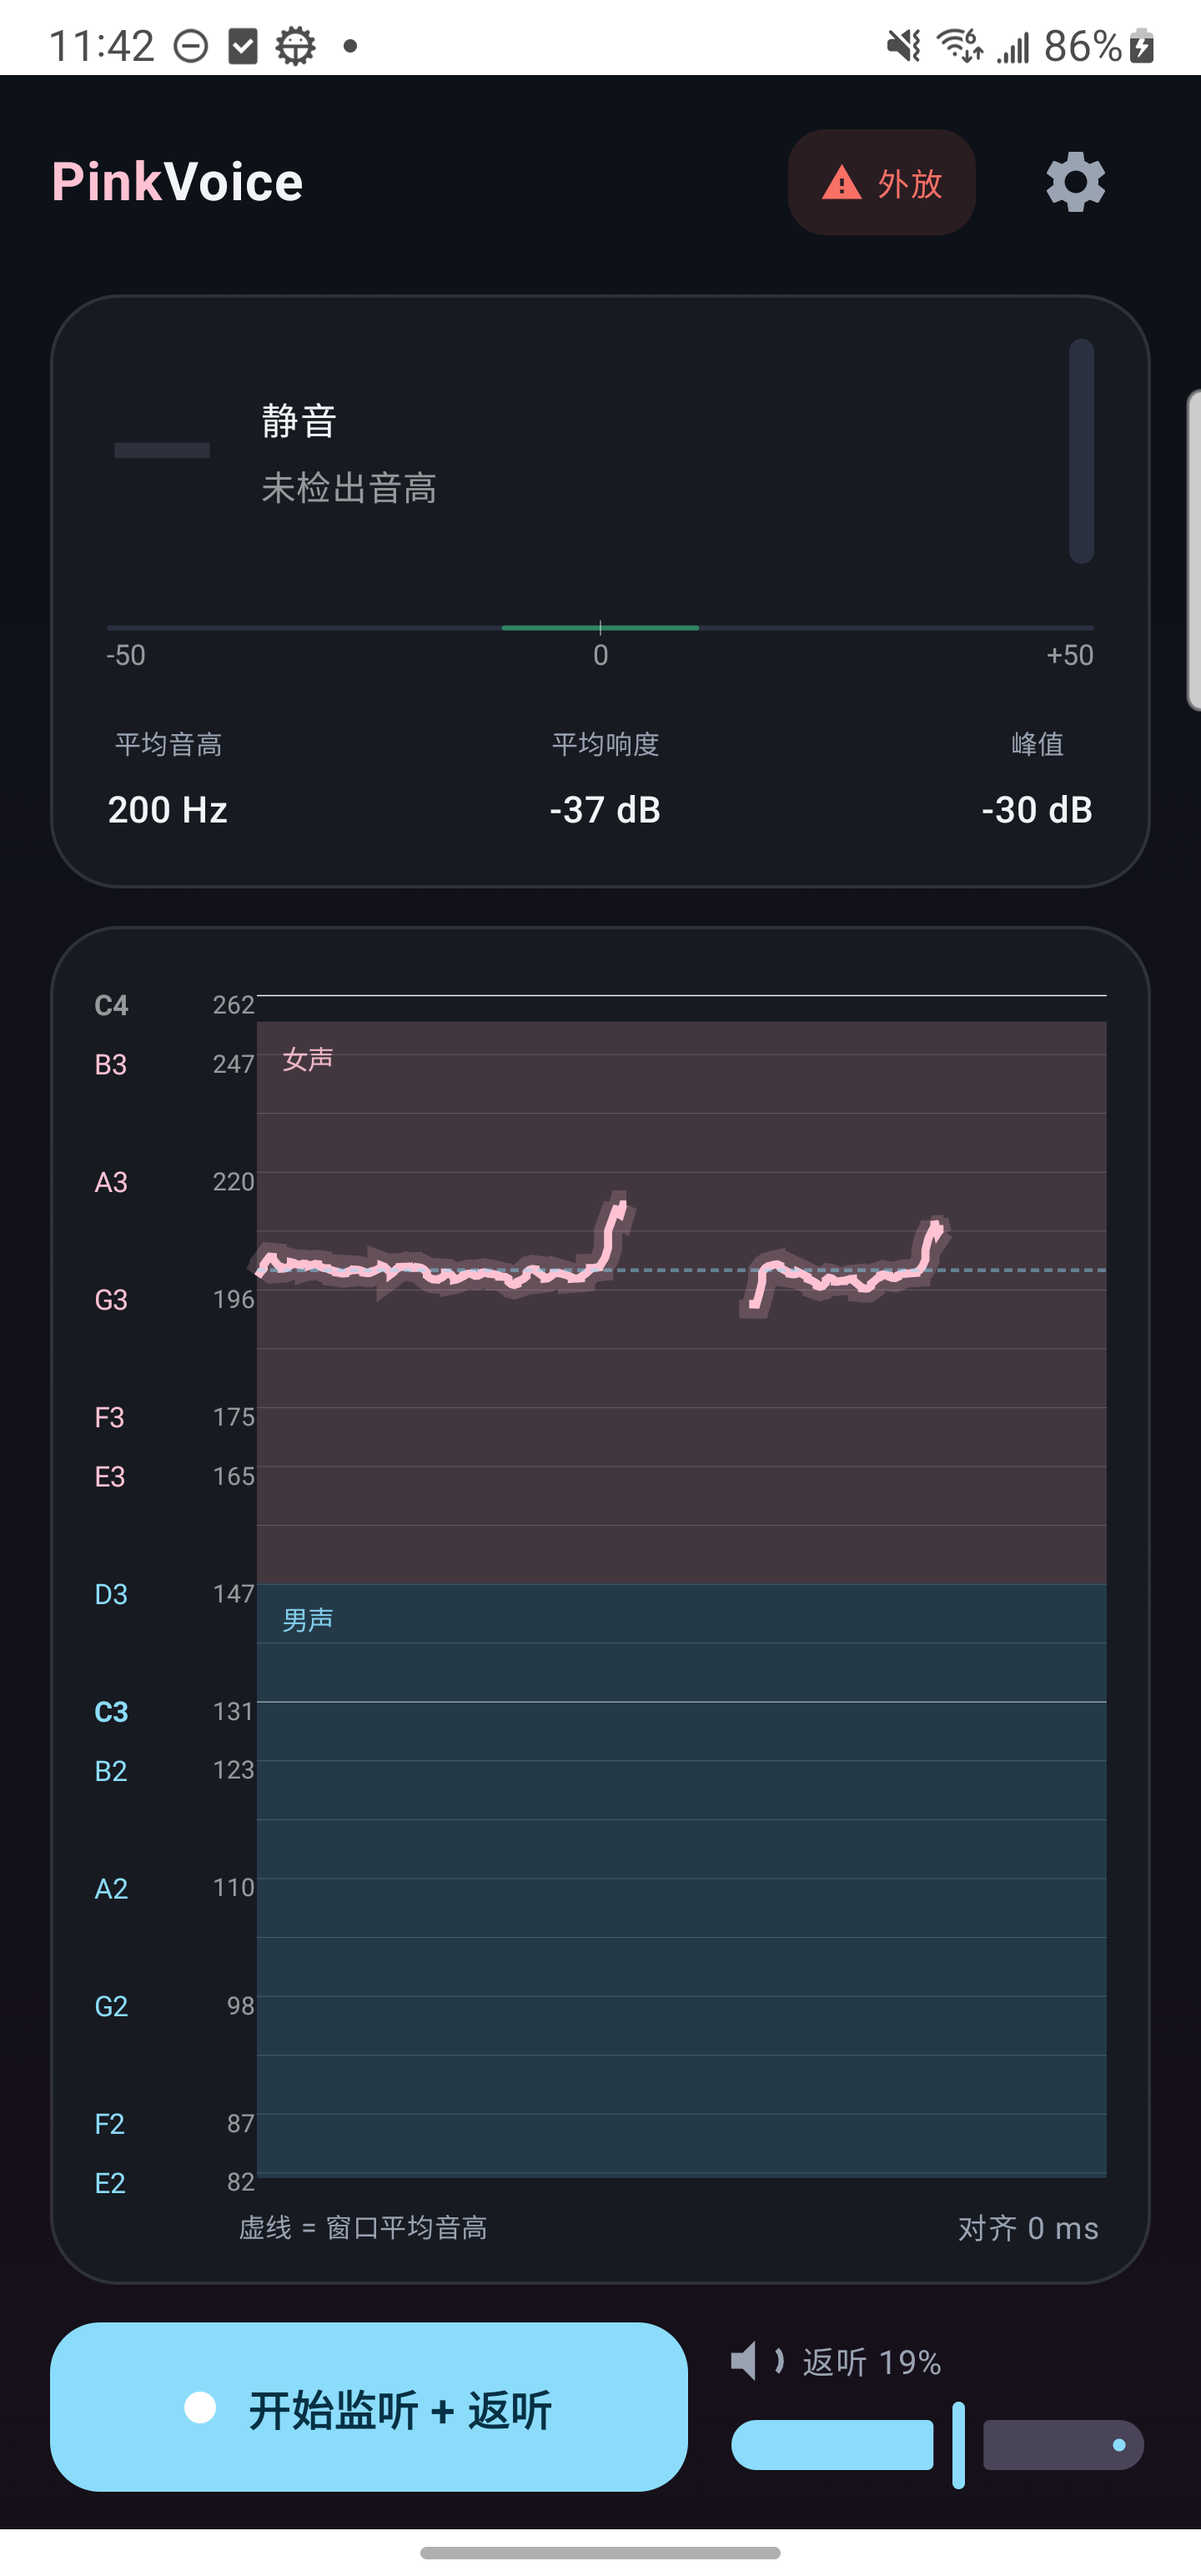
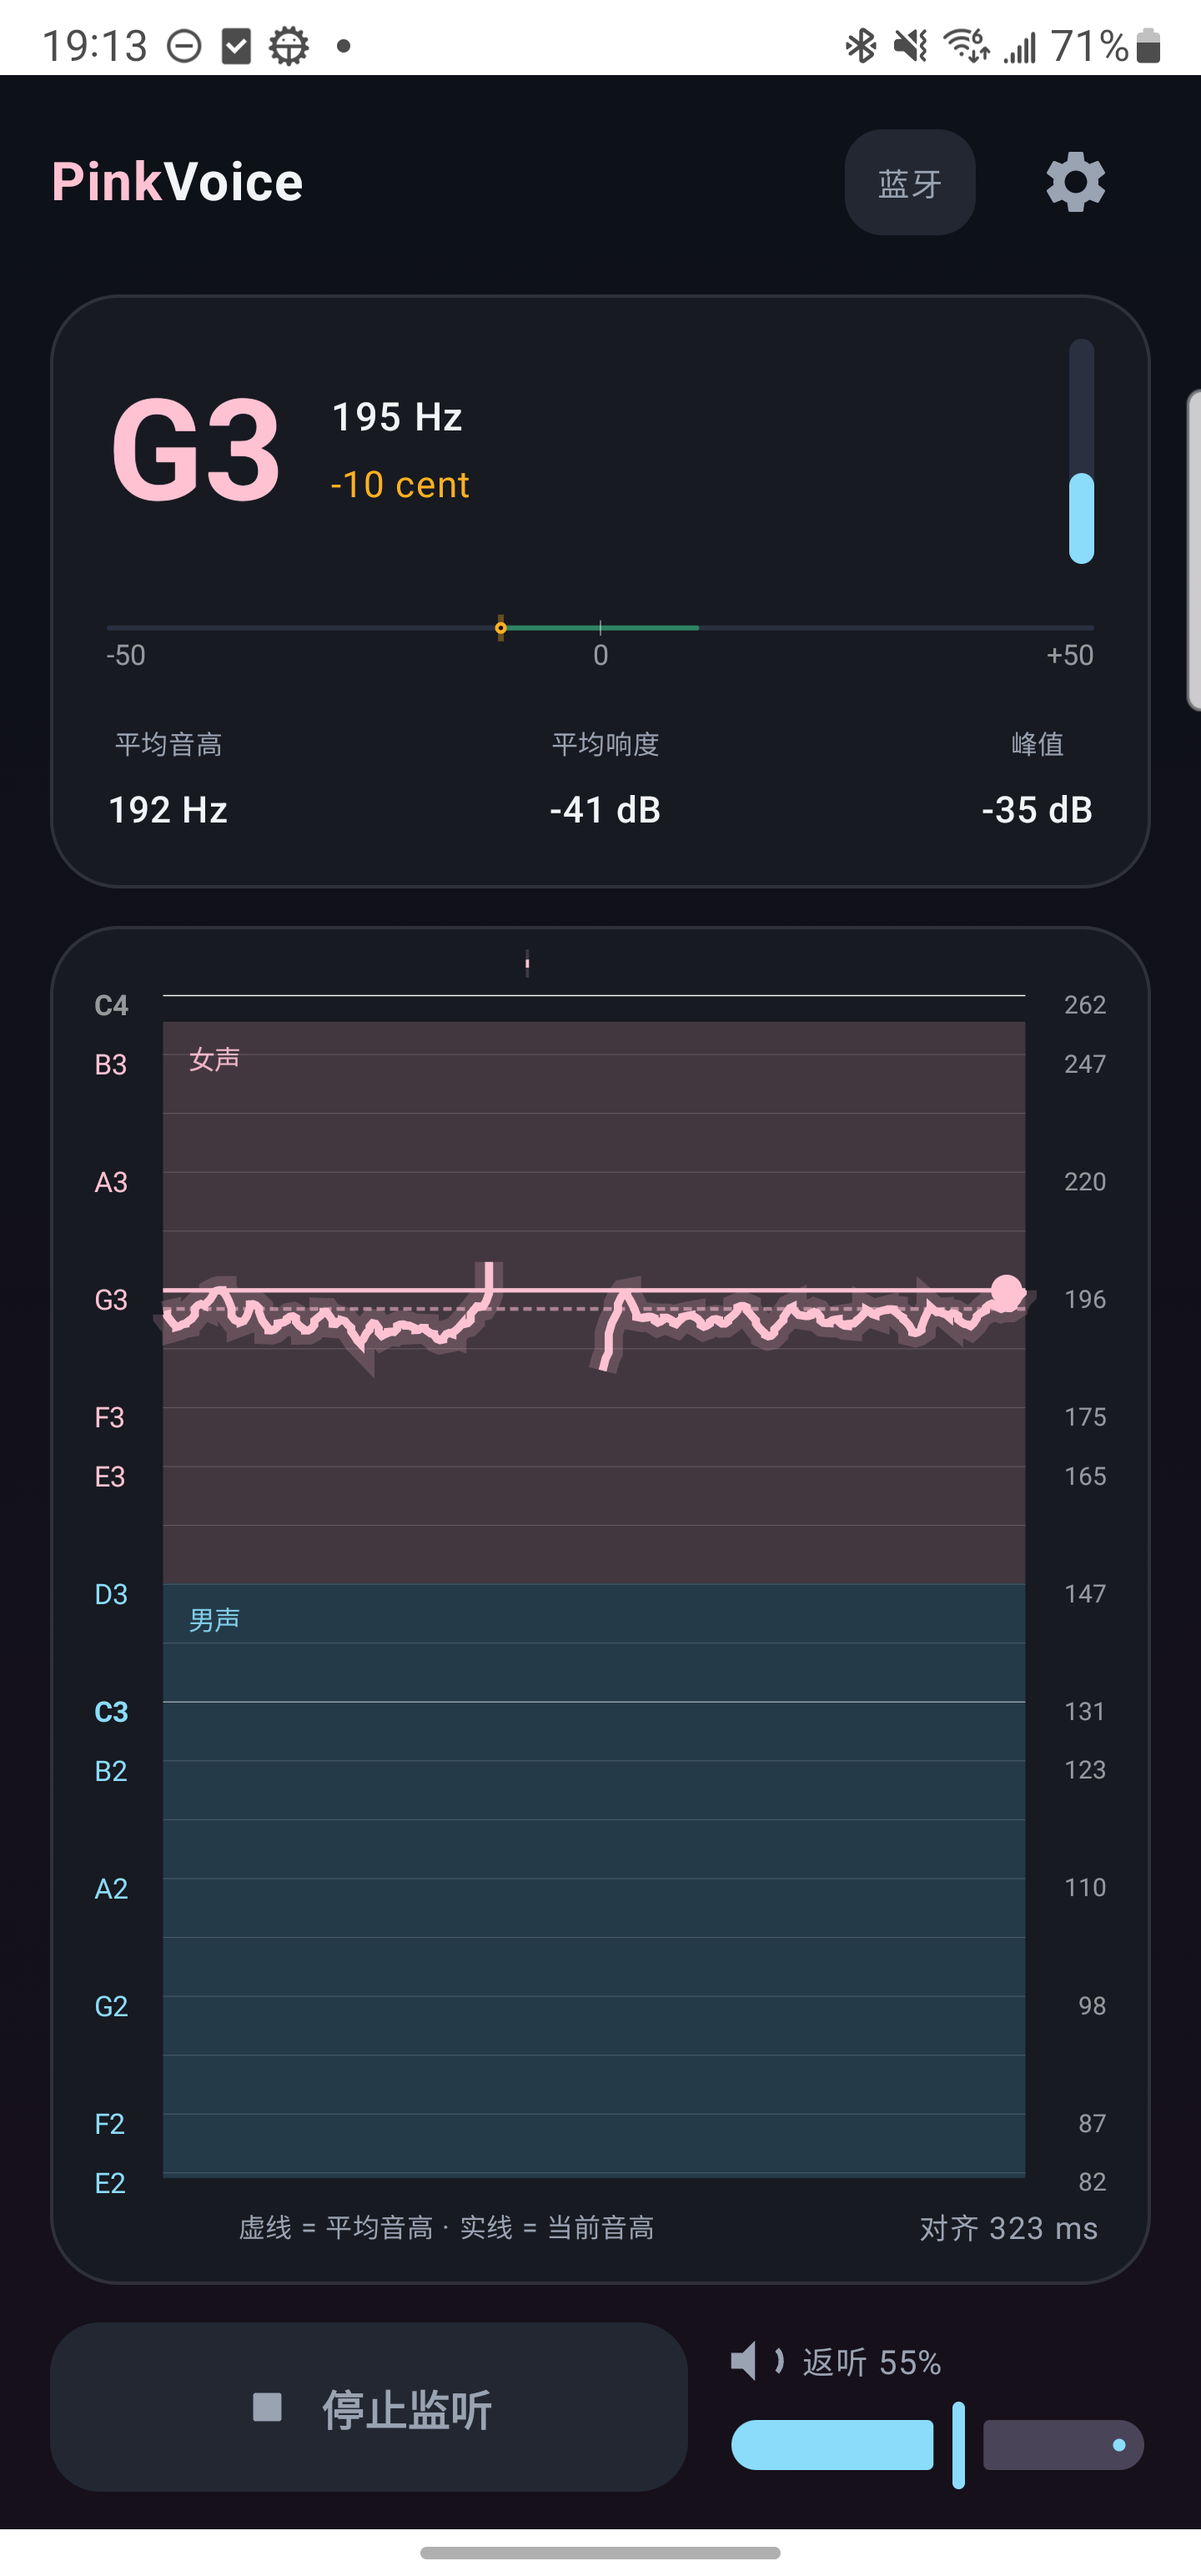
feat: 平均线按音域着色 + README 新截图 + CI 自动发布 Release
三件事：

## 1. 平均音高虚线按音域着色

虚线原来固定是蓝色（男声区色），但它代表的是"你的整体音高"，
不一定落在男声区。现在跟着它所在的音域走：女声区粉色、男声区蓝色，
和背景色带、左侧音名、右上角大音名是同一套语义。

顺带把**当前音高指示线**也改成按音域着色，并从虚线改成实线 + 圆点——
两条都是虚线的时候很容易看混，而图例只解释了一条。
图例改成「虚线 = 平均音高 · 实线 = 当前音高」。

## 2. README 截图更新

之前的截图是旧界面（没有左右分栏、没有新图例）。
全部用真机重拍：

- 浅色：G3 粉色大音名 201 Hz、颤音曲线、粉色实线（当前音高）
  与粉色虚线（平均音高）清晰可辨、蓝牙芯片、返听 55%
- 深色：同一界面的深色版本
- 设置面板：新的「视觉对齐」说明（手动对齐滑块已删）、
  Galaxy Buds Pro 设备名、374ms 输出延迟明细

README 里补了设置面板截图和下载区块。

## 3. CI 自动发布带 APK 的 Release

新增 .github/workflows/release.yml：

- 推标签 `v*` → 发布正式 Release（`gh release create`，自动生成说明）
- 推 main → 更新滚动的 `latest` 预发布（APK 用 --clobber 替换）
- 也支持手动触发

签名：配了 secrets 就用正式密钥，没配就退回仓库里的 debug keystore，
保证 workflow 不会因为"没配密钥"失败，用户总能下到能装的 APK。

versionCode 统一用构建时间（YYMMDDHH）。之前试过"按版本号推导"
（1.2.3 → 10203），但那样 latest 滚动版和标签版会用两套编码，
大小关系不可控——Android 会以 INSTALL_FAILED_VERSION_DOWNGRADE
拒绝安装。时间戳编码天生单调递增，两种发布方式混用也不会打架。

build.gradle.kts 相应改动：
- versionCode / versionName 可用 -PversionCode= / -PversionName= 覆盖
- 新增 release 签名配置（环境变量注入，无则退回 debug keystore）
- release buildType 绑定该签名配置

本地验证：release APK 构建成功（6.5 MB）、签名有效、真机安装运行正常。

diff --git a/app/src/main/java/com/vera/pinkvoice/ui/PitchCurve.kt b/app/src/main/java/com/vera/pinkvoice/ui/PitchCurve.kt
@@ -224,10 +224,14 @@ fun PitchCurve(
             }
 
             // 窗口平均音高参考线：练声时能一眼看出"我整体在多高"
+            //
+            // 颜色跟着它所在的音域走：平均音高落在女声区就是粉色，
+            // 落在男声区就是蓝色。这样虚线和背景色带、左侧音名、
+            // 右上角的大音名是同一套语义，不用再解释"这个蓝是什么意思"。
             if (avgHz != null && avgHz > 0f) {
                 val y = yFor(avgHz, h, fMin, fMax)
                 drawLine(
-                    color = palette.primaryInk.copy(alpha = 0.45f),
+                    color = bandColorOf(avgHz, palette).copy(alpha = 0.55f),
                     start = Offset(plotLeft, y),
                     end = Offset(plotRight, y),
                     strokeWidth = 1.2.dp.toPx(),
@@ -239,18 +243,22 @@ fun PitchCurve(
             }
 
             // 右侧当前音高指示（取"此刻听到"的那一点）
+            //
+            // 用**实线** + 圆点，和平均音高的虚线区分开——
+            // 两条都是虚线的时候很容易看混，图例只解释了一条。
+            // 颜色跟着当前音高所在的音域走。
             val heard = history.sampleAt(endNs)
             if (heard != null && heard.hz > 0f && heard.clarity >= 0.3f) {
                 val y = yFor(heard.hz, h, fMin, fMax)
+                val ink = bandColorOf(heard.hz, palette)
                 drawLine(
-                    color = palette.primaryInk,
+                    color = ink,
                     start = Offset(plotLeft, y),
                     end = Offset(plotRight, y),
                     strokeWidth = 1.4.dp.toPx(),
-                    pathEffect = PathEffect.dashPathEffect(floatArrayOf(8f, 8f)),
                 )
                 drawCircle(
-                    palette.primaryInk,
+                    ink,
                     radius = 5.dp.toPx(),
                     center = Offset(plotRight - 6.dp.toPx(), y),
                 )

diff --git a/app/src/main/java/com/vera/pinkvoice/ui/VoiceScreen.kt b/app/src/main/java/com/vera/pinkvoice/ui/VoiceScreen.kt
@@ -411,7 +411,7 @@ fun VoiceScreen(
                 // 底部左侧说明那条虚线是窗口平均音高——数值本身在读数卡里，
                 // 这里只给一个图例，免得用户对着虚线猜它是什么。
                 Text(
-                    text = "虚线 = 窗口平均音高",
+                    text = "虚线 = 平均音高 · 实线 = 当前音高",
                     fontSize = 10.sp,
                     color = MaterialTheme.colorScheme.onSurfaceVariant,
                     modifier = Modifier

diff --git a/README.md b/README.md
@@ -36,6 +36,22 @@
 
 <p align="center"><sub>浅色 / 深色 / 跟随系统三档外观，设置面板里随时切换</sub></p>
 
+<div align="center">
+  <img src="docs/screenshots/settings.png" width="300" alt="设置面板">
+</div>
+
+<p align="center"><sub>延迟测量与对齐补偿 · 蓝牙设备自动识别 · 实时插拔耳机</sub></p>
+
+## 下载
+
+| 版本 | 说明 |
+|---|---|
+| [Releases](https://github.com/vera-qwang/pinkvoice/releases) | 正式版本（带标签的 Release）和滚动更新的 `latest` 预发布，APK 直接下载 |
+| [Actions 构建](https://github.com/vera-qwang/pinkvoice/actions) | 每次提交的自动构建，APK 作为 artifact 可下载 |
+
+APK 需要 Android 8.0（API 26）及以上。直接装 APK 需要在系统里允许
+「安装未知来源应用」。
+
 ## 快速开始
 
 ```bash
